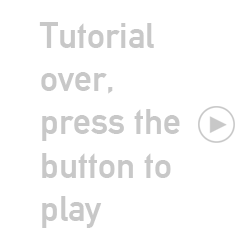
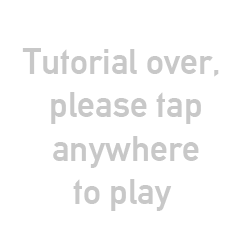
Updated messages for tutorial

diff --git a/Assets/Scripts/Misc/TutorialScript.cs b/Assets/Scripts/Misc/TutorialScript.cs
@@ -37,7 +37,7 @@ public class TutorialScript : MonoBehaviour
             // Allow the player to move the obstacles.
             gameManager.isDead = false;
 
-            // If the obstacle has been moved to the correct position. 
+            // If the obstacle has been moved to the correct position.
             if (targetObstacle.transform.localPosition.y >= -0.1f && targetObstacle.transform.localPosition.y <= 0.1f)
             {
                 // Return movement to player and the particles.
@@ -51,10 +51,22 @@ public class TutorialScript : MonoBehaviour
             }
         }
 
+        if (gameManager.isDead)
+        {
+
+
+        }
+
         if (transform.localPosition.x >= 11.65f)
         {
             hintMessage[1].SetActive(false);
+#if UNITY_ANDROID
             hintMessage[2].SetActive(true);
+#endif
+
+#if UNITY_WEBPLAYER
+            hintMessage[4].SetActive(true);
+#endif
             gameManager.playCount = 1;
         }
     }
